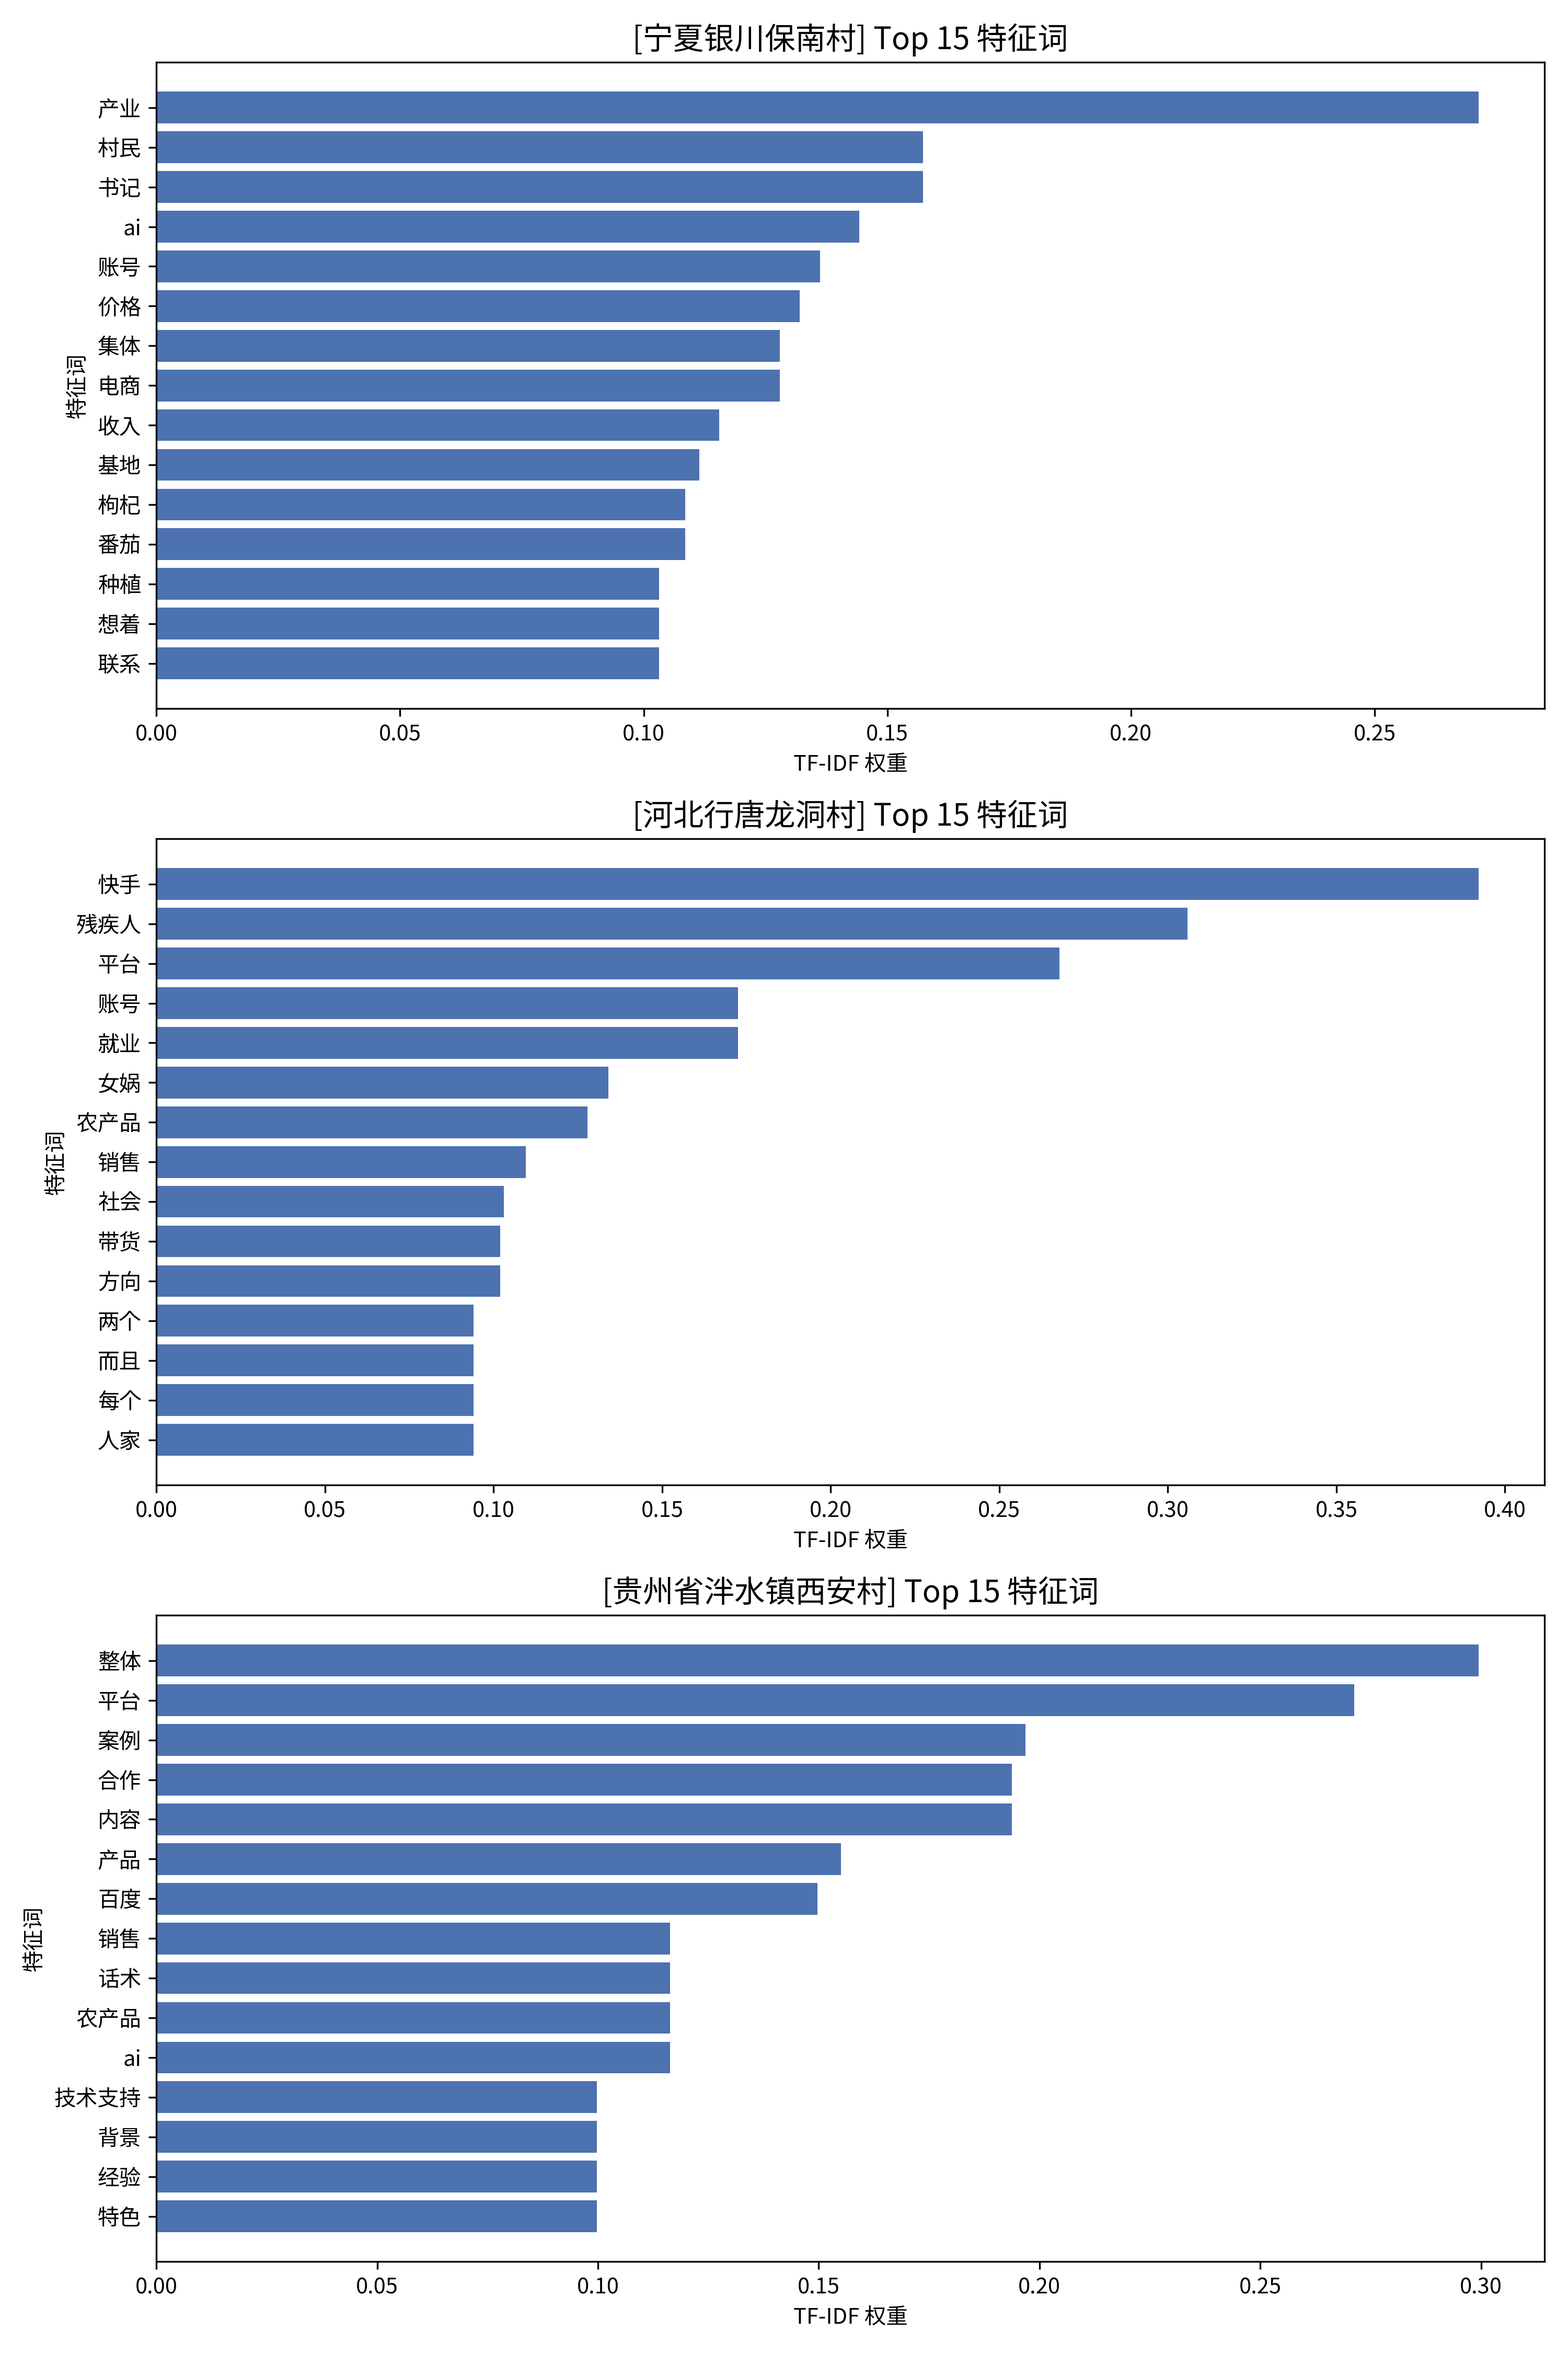
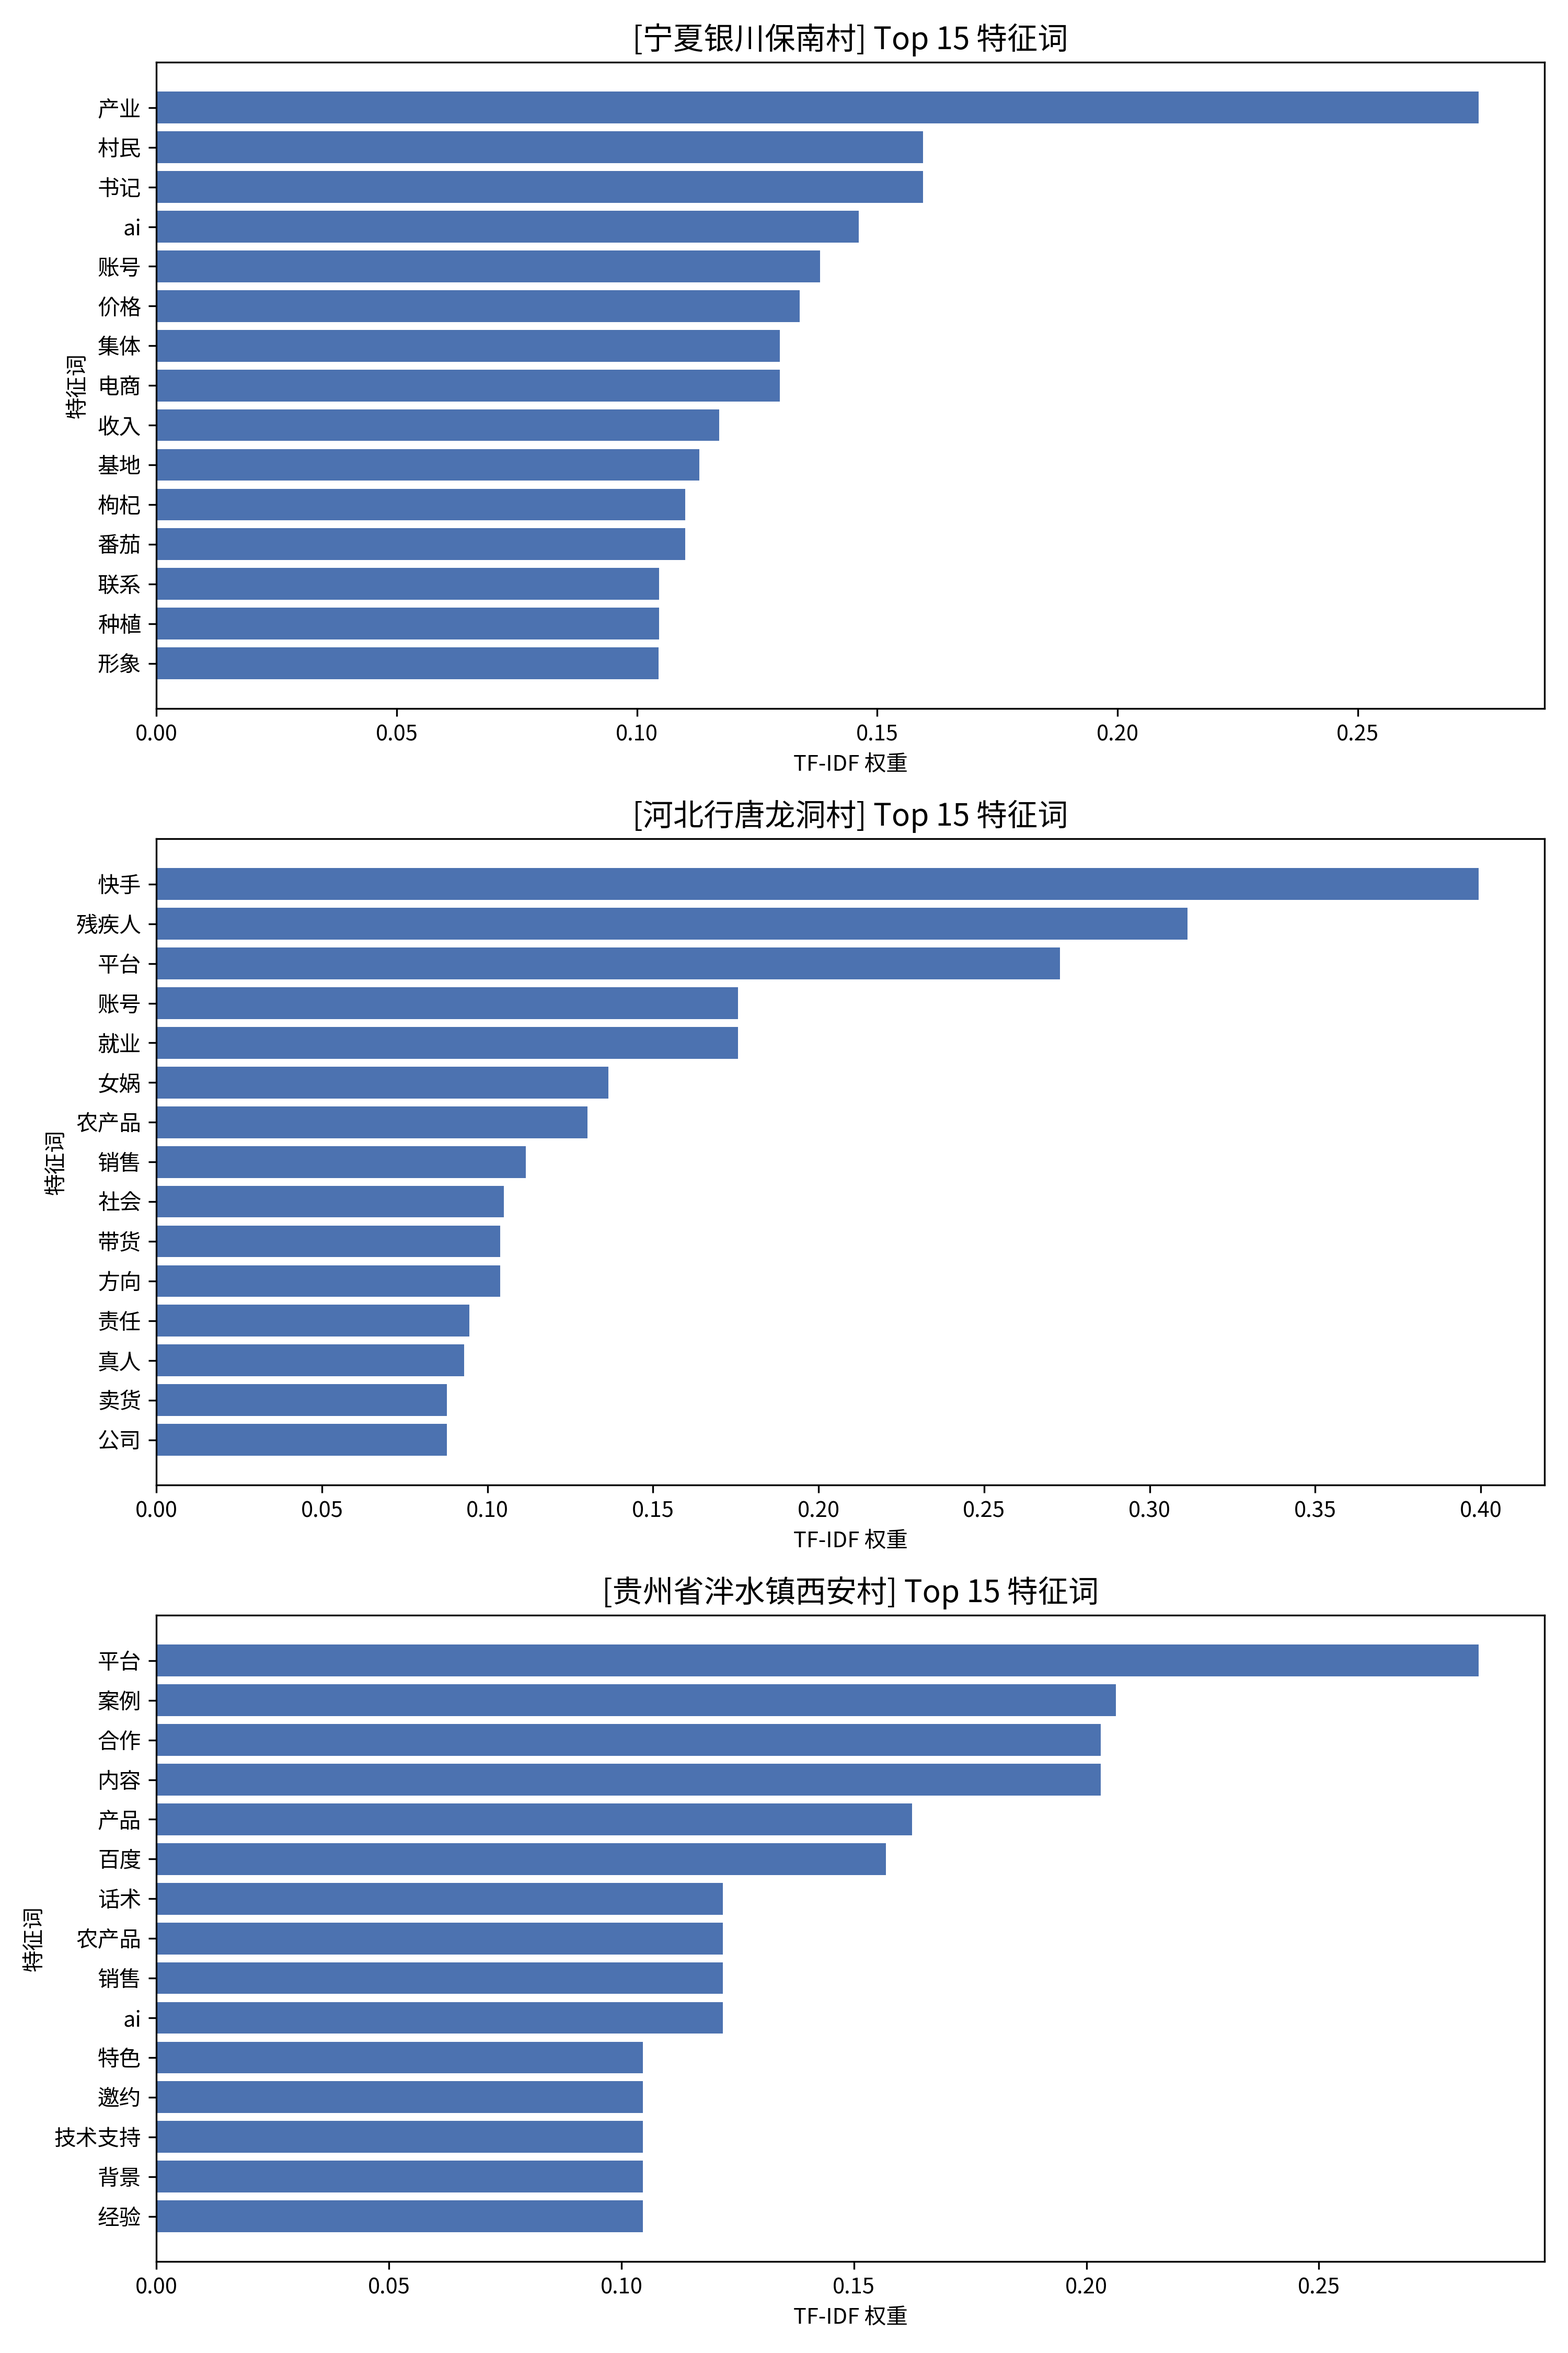
update

diff --git a/src/tf_idf.py b/src/tf_idf.py
@@ -42,7 +42,8 @@ class TfidfAnalyzer:
             '开始', '发现', '产生', '作为', '这些', '之后', '比如说', '这块', '了解', '今年', '一块',
             '到时候', '那么', '目前', '不是', '为了', '这样', '目的', '其他', '那边', '已经', '过来', '南村',
             '来说', '解决', '将近', '去年', '考虑', '关键词', '这么', '对于', '确实', '整个', '宁夏',
-            '结合', '主要', '参考', '另一方面', '利用', '成功', '应用', '双方', '流程', '更加', '明显'
+            '结合', '主要', '参考', '另一方面', '利用', '成功', '应用', '双方', '流程', '更加', '明显',
+            '想着','而且', '每个', '人家', '两个', '整体'
         }
 
     def load_data(self):
